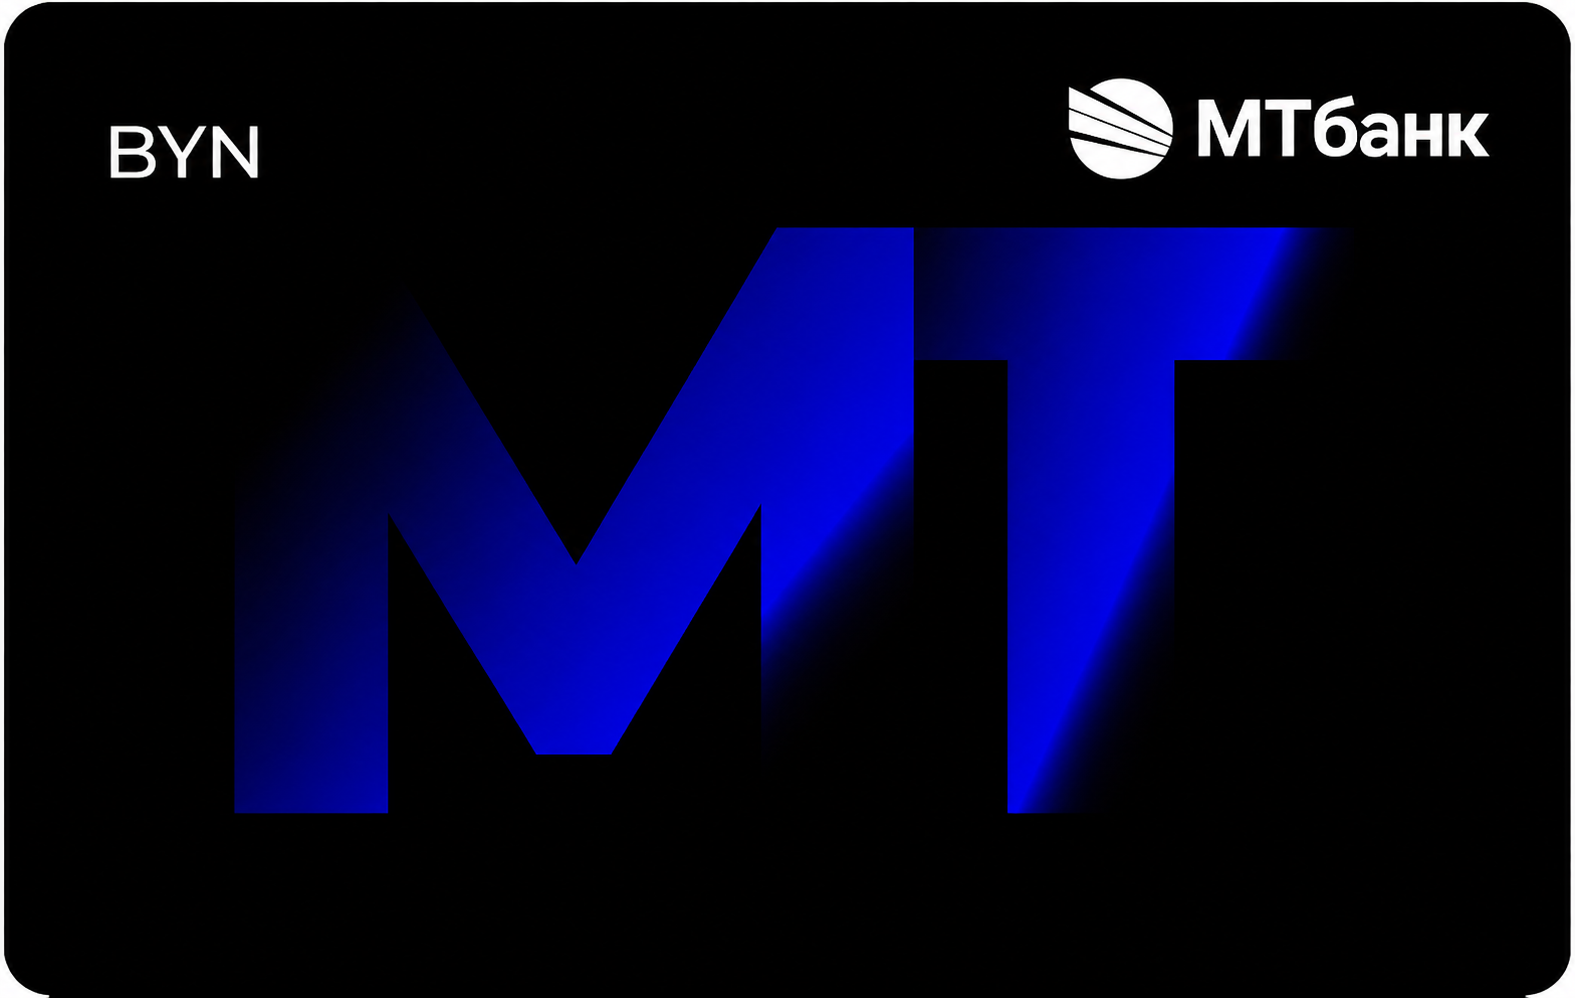
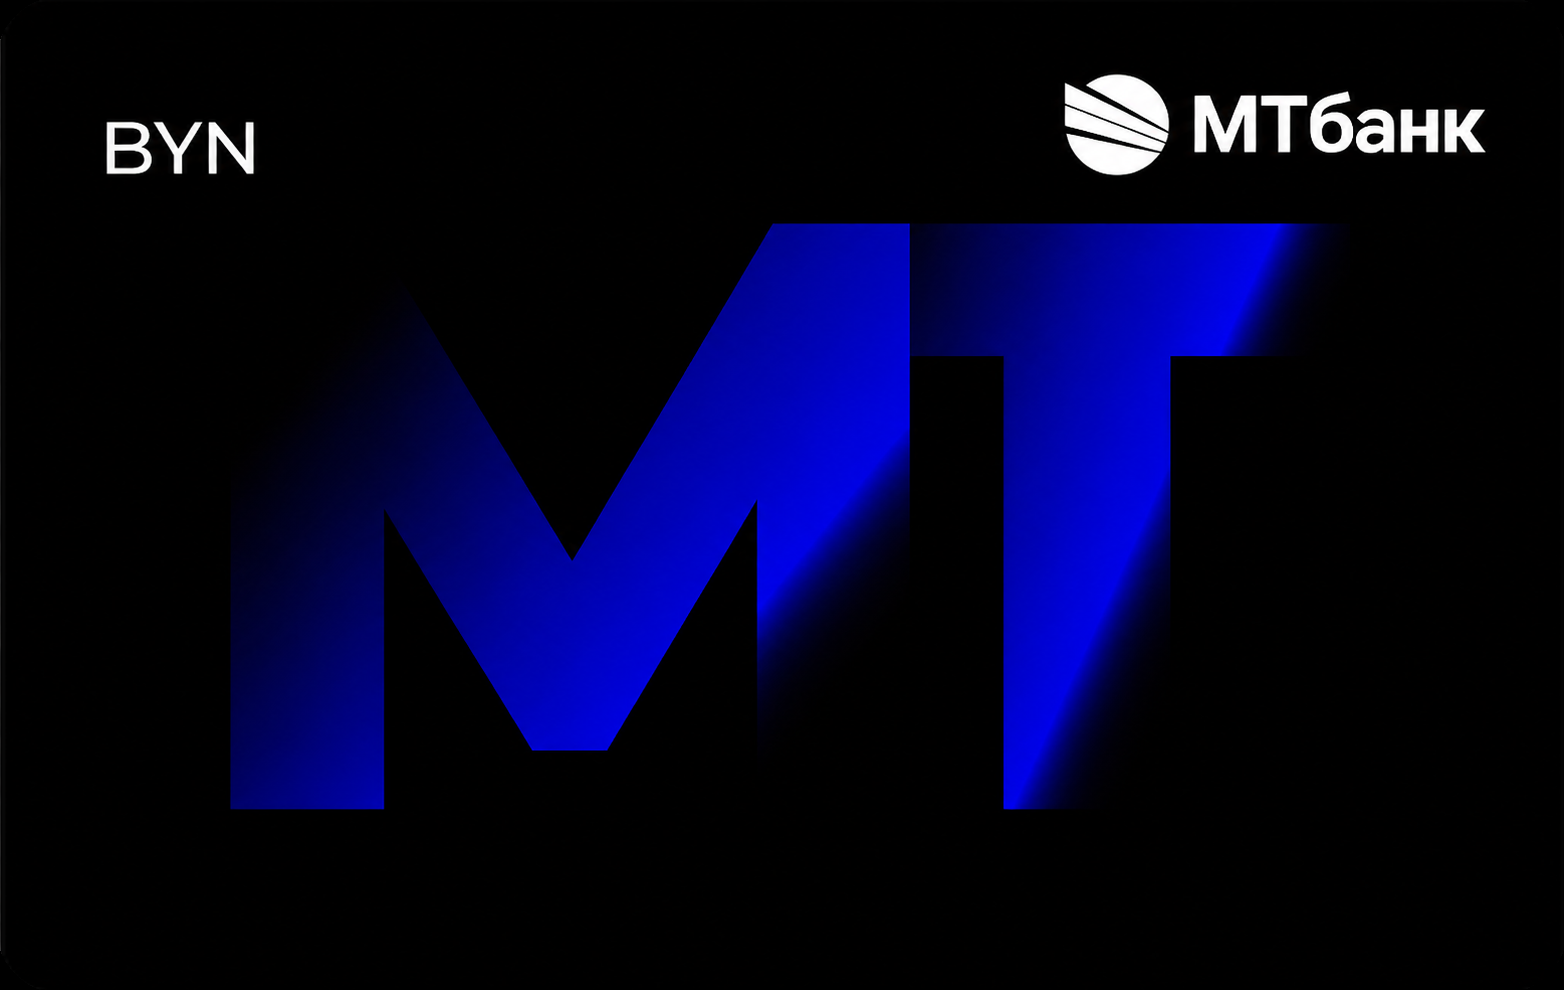
feat: без белых полос по краям карты, имя латиницей и система на карте, баланс скрывается при обновлении

diff --git a/mobile/src/ui/CardPeek.tsx b/mobile/src/ui/CardPeek.tsx
@@ -3,8 +3,10 @@ import React, { useRef, useState } from "react";
 import { Animated, Image, PanResponder, Pressable, StyleSheet, useWindowDimensions, View } from "react-native";
 
 import { formatPan } from "@/lib/card";
+import { translit } from "@/lib/translit";
 import type { CardInfo } from "@/store/types";
 import { radius, spacing } from "@/theme/tokens";
+import { PaymentBrand } from "@/ui/PaymentBrand";
 import { Text } from "@/ui/Text";
 
 const LIFT = 150;
@@ -24,6 +26,7 @@ export function CardPeek({
   onIssue,
   onDetails,
   onRefresh,
+  refreshing,
 }: {
   cards: CardInfo[];
   holder: string;
@@ -34,6 +37,7 @@ export function CardPeek({
   onIssue?: () => void;
   onDetails?: (card: CardInfo) => void;
   onRefresh?: () => void;
+  refreshing?: boolean;
   limitLeft?: number;
 }) {
   const { width } = useWindowDimensions();
@@ -129,6 +133,13 @@ export function CardPeek({
             </Pressable>
           ) : null}
 
+          <Text style={styles.holder} numberOfLines={1}>
+            {translit((card.holder ?? holder) || "").toUpperCase()}
+          </Text>
+          <View style={styles.brand}>
+            <PaymentBrand system={card.system} onDark />
+          </View>
+
           <Animated.View style={[styles.details, { opacity: expanded }]}>
             <View style={styles.detailsRow}>
               <View style={{ flex: 1 }}>
@@ -173,6 +184,8 @@ const styles = StyleSheet.create({
   },
   face: { width: "100%", height: "100%" },
   refresh: { position: "absolute", top: 14, right: 18, width: 26, height: 26, alignItems: "center", justifyContent: "center" },
+  holder: { position: "absolute", left: 18, bottom: 48, color: "#fff", fontSize: 13, fontWeight: "700", letterSpacing: 1.4, maxWidth: "60%", textShadowColor: "rgba(0,0,0,0.6)", textShadowOffset: { width: 0, height: 1 }, textShadowRadius: 3 },
+  brand: { position: "absolute", right: 18, bottom: 44 },
   details: {
     position: "absolute",
     left: 18,

diff --git a/mobile/src/app/parent/(tabs)/index.tsx b/mobile/src/app/parent/(tabs)/index.tsx
@@ -213,7 +213,7 @@ export default function ParentHomeScreen() {
                     {/* Баланс отдельно над картой */}
                     <View style={[styles.balanceRow, pulled && styles.hidden]}>
                         <Text style={styles.balance}>
-                            {formatMoney(activeBalance, 0).replace(" BYN", "")}
+                            {refreshing ? "•••" : formatMoney(activeBalance, 0).replace(" BYN", "")}
                         </Text>
                         <Text style={styles.currency}>BYN</Text>
                     </View>
@@ -228,6 +228,7 @@ export default function ParentHomeScreen() {
                             balance={activeBalance}
                             onIssue={() => void issueMyCard()}
                             activeIndex={activeIndex}
+                            refreshing={refreshing}
                             onIndexChange={setActiveIndex}
                             onDetails={(card) => setPendingCard(card)}
                             onRefresh={() => {

diff --git a/mobile/src/app/child/(tabs)/index.tsx b/mobile/src/app/child/(tabs)/index.tsx
@@ -174,7 +174,7 @@ export default function ChildHomeScreen() {
                     {/* Баланс (отдельно над картой!) */}
                     <View style={[styles.balanceRow, pulled && styles.hidden]}>
                         <Text style={styles.balance}>
-                            {formatMoney(state.balance, 0).replace(" BYN", "")}
+                            {refreshing ? "•••" : formatMoney(state.balance, 0).replace(" BYN", "")}
                         </Text>
                         <Text style={styles.currency}>BYN</Text>
                     </View>
@@ -188,6 +188,7 @@ export default function ChildHomeScreen() {
                             scrollY={pull}
                             balance={state.balance}
                             onIssue={() => router.push("/child/accounts")}
+                            refreshing={refreshing}
                             onDetails={(card) => setPendingCard(card)}
                             onRefresh={() => {
                                 setRefreshing(true);

diff --git a/mobile/src/lib/translit.ts b/mobile/src/lib/translit.ts
@@ -1,0 +1,18 @@
+const MAP: Record<string, string> = {
+  а: "a", б: "b", в: "v", г: "g", д: "d", е: "e", ё: "e", ж: "zh", з: "z", и: "i",
+  й: "i", к: "k", л: "l", м: "m", н: "n", о: "o", п: "p", р: "r", с: "s", т: "t",
+  у: "u", ф: "f", х: "kh", ц: "ts", ч: "ch", ш: "sh", щ: "sch", ъ: "", ы: "y",
+  ь: "", э: "e", ю: "yu", я: "ya",
+  і: "i", ў: "u",
+};
+
+/** Транслитерация имени в латиницу для лицевой стороны карты. */
+export function translit(value: string): string {
+  return (value ?? "")
+    .toLowerCase()
+    .split("")
+    .map((char) => MAP[char] ?? char)
+    .join("")
+    .replace(/\s+/g, " ")
+    .trim();
+}
